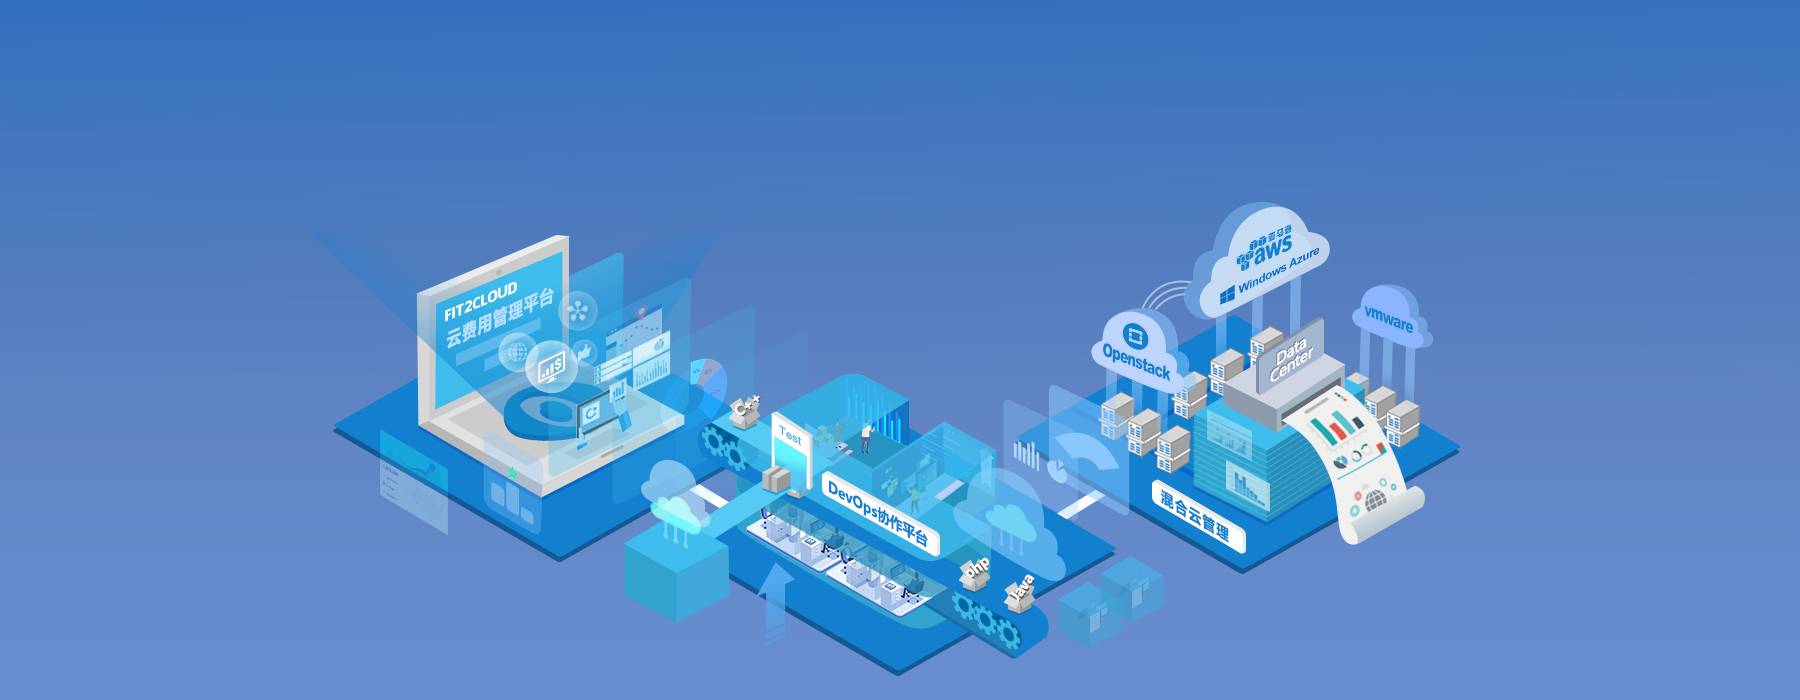
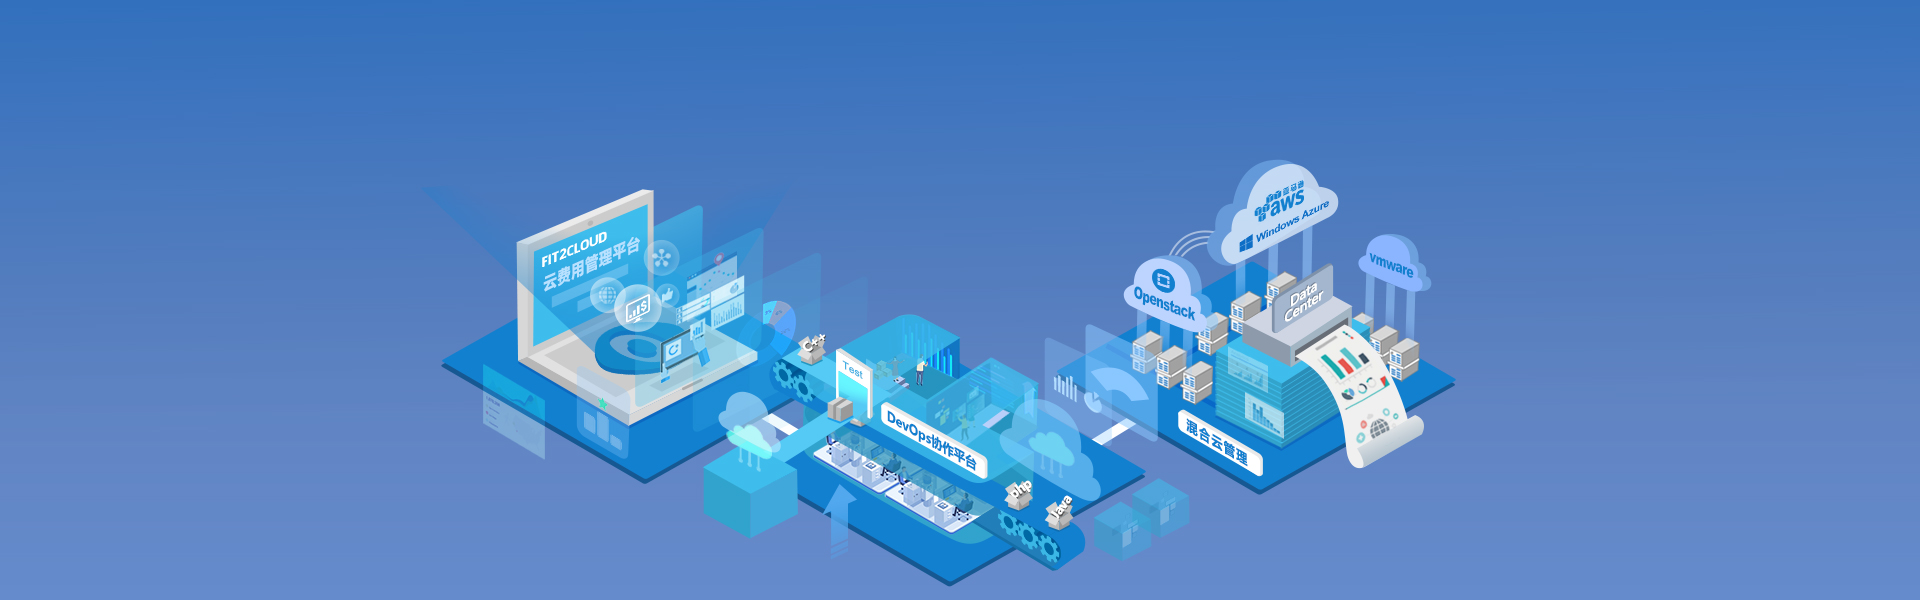
Fix bug

Changed region(s): [[0.1867, 0.27, 0.8089, 0.99], [0.4667, 0.51, 0.4978, 0.54]]

diff --git a/css/landing-page.css b/css/landing-page.css
@@ -33,10 +33,10 @@ h4 {
 }
 
 .home-wrapper {
-    height:100%;
+    height: 660px;
     text-align: center;
     color: #06497D;
-    background: url(../img/bg.jpg) no-repeat center 40px;
+    background: url(../img/bg.jpg) no-repeat center  0;
     -webkit-background-size: cover;
     -moz-background-size: cover;
     -o-background-size: cover;
@@ -46,7 +46,7 @@ h4 {
     height: 100%;
     text-align: center;
     color: #06497D;
-    background: url(../img/products/devops-bg.jpg) no-repeat center 40px;
+    background: url(../img/products/devops-bg.jpg) no-repeat center 0;
     -webkit-background-size: cover;
     -moz-background-size: cover;
     -o-background-size: cover;
@@ -56,7 +56,7 @@ h4 {
     height: 100%;
     text-align: center;
     color: #06497D;
-    background: url(../img/products/hybridclouds-bg.jpg) no-repeat center 40px;
+    background: url(../img/products/hybridclouds-bg.jpg) no-repeat center 0;
     -webkit-background-size: cover;
     -moz-background-size: cover;
     -o-background-size: cover;
@@ -66,7 +66,7 @@ h4 {
     height: 100%;
     text-align: center;
     color: #06497D;
-    background: url(../img/products/costanalytics-bg.jpg) no-repeat center 40px;
+    background: url(../img/products/costanalytics-bg.jpg) no-repeat center 0;
     -webkit-background-size: cover;
     -moz-background-size: cover;
     -o-background-size: cover;
